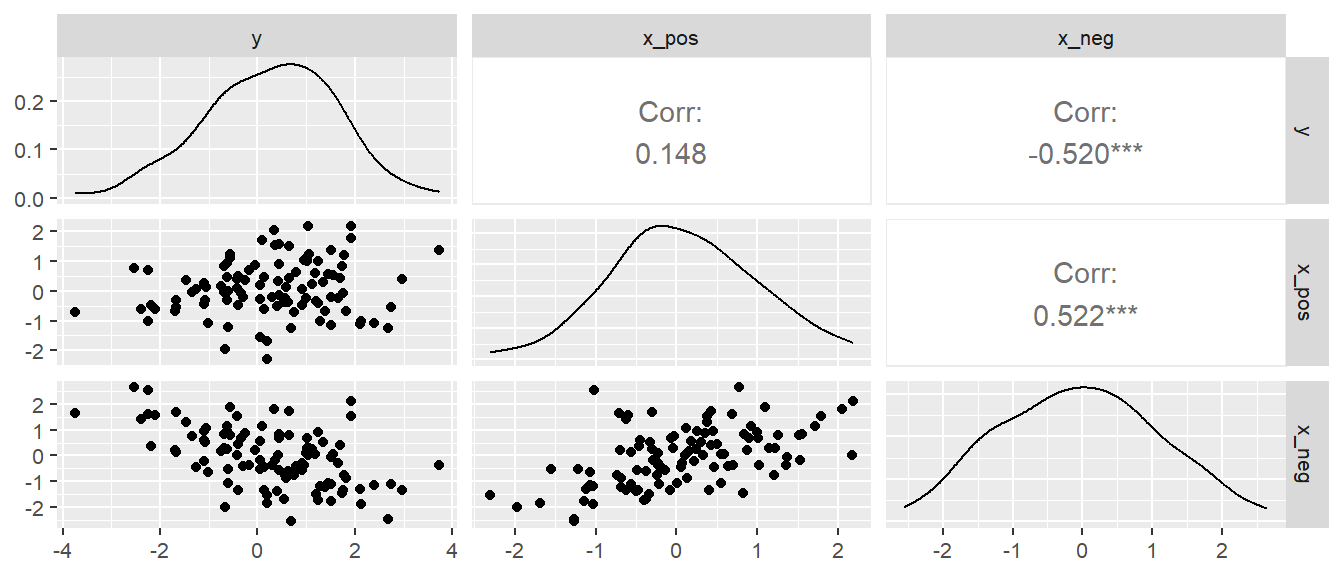
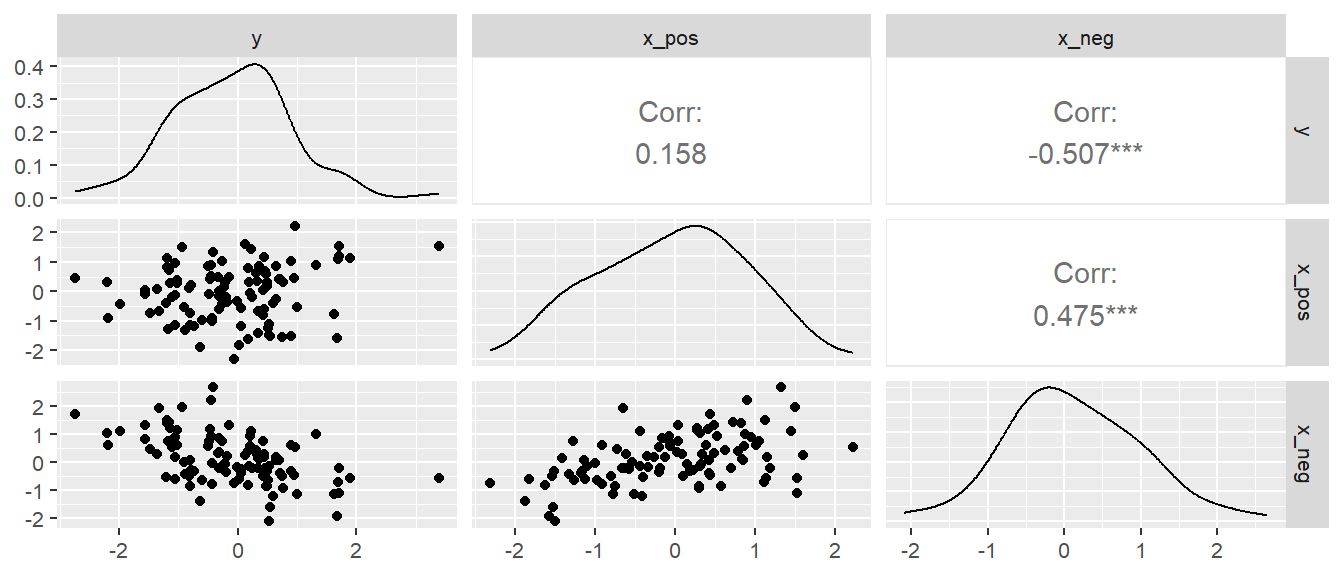
mlm_basics: More explanations for multicollinearity.

diff --git a/docs/mlm_basics.html b/docs/mlm_basics.html
@@ -493,15 +493,14 @@ window.Quarto = {
   <ul class="collapse">
   <li><a href="#added-variable-plots" id="toc-added-variable-plots" class="nav-link" data-scroll-target="#added-variable-plots"><span class="header-section-number">17.2.1</span> Added-variable plots</a></li>
   <li><a href="#was-passiert-wenn-eine-prädiktorvariable-weggelassen-wird" id="toc-was-passiert-wenn-eine-prädiktorvariable-weggelassen-wird" class="nav-link" data-scroll-target="#was-passiert-wenn-eine-prädiktorvariable-weggelassen-wird"><span class="header-section-number">17.2.2</span> Was passiert wenn eine Prädiktorvariable weggelassen wird?</a></li>
-  <li><a href="#was-passiert-wenn-prädiktoren-stark-miteinander-korrelieren" id="toc-was-passiert-wenn-prädiktoren-stark-miteinander-korrelieren" class="nav-link" data-scroll-target="#was-passiert-wenn-prädiktoren-stark-miteinander-korrelieren"><span class="header-section-number">17.2.3</span> Was passiert wenn Prädiktoren stark miteinander korrelieren?</a></li>
   </ul></li>
   <li><a href="#multikollinearität" id="toc-multikollinearität" class="nav-link" data-scroll-target="#multikollinearität"><span class="header-section-number">17.3</span> Multikollinearität</a>
   <ul class="collapse">
   <li><a href="#variance-inflation-factor-vif-in-r-berechnen" id="toc-variance-inflation-factor-vif-in-r-berechnen" class="nav-link" data-scroll-target="#variance-inflation-factor-vif-in-r-berechnen"><span class="header-section-number">17.3.1</span> Variance Inflation Factor (VIF) in <code>R</code> berechnen</a></li>
+  <li><a href="#wenn-prädiktorvariablen-x_j-sich-maskieren" id="toc-wenn-prädiktorvariablen-x_j-sich-maskieren" class="nav-link" data-scroll-target="#wenn-prädiktorvariablen-x_j-sich-maskieren"><span class="header-section-number">17.3.2</span> Wenn Prädiktorvariablen <span class="math inline">\(X_j\)</span> sich maskieren</a></li>
   </ul></li>
-  <li><a href="#verhältnis-der-prädiktorvariblen-x_j-untereinander" id="toc-verhältnis-der-prädiktorvariblen-x_j-untereinander" class="nav-link" data-scroll-target="#verhältnis-der-prädiktorvariblen-x_j-untereinander"><span class="header-section-number">17.4</span> Verhältnis der Prädiktorvariblen <span class="math inline">\(X_j\)</span> untereinander</a></li>
-  <li><a href="#take-away" id="toc-take-away" class="nav-link" data-scroll-target="#take-away"><span class="header-section-number">17.5</span> Take-away</a></li>
-  <li><a href="#zum-nacharbeiten" id="toc-zum-nacharbeiten" class="nav-link" data-scroll-target="#zum-nacharbeiten"><span class="header-section-number">17.6</span> Zum Nacharbeiten</a></li>
+  <li><a href="#take-away" id="toc-take-away" class="nav-link" data-scroll-target="#take-away"><span class="header-section-number">17.4</span> Take-away</a></li>
+  <li><a href="#zum-nacharbeiten" id="toc-zum-nacharbeiten" class="nav-link" data-scroll-target="#zum-nacharbeiten"><span class="header-section-number">17.5</span> Zum Nacharbeiten</a></li>
   </ul>
 </nav>
     </div>
@@ -1013,8 +1012,9 @@ y  0.969 0.289 1.000</code></pre>
 </div>
 <p>Es ist zu sehen, dass <span class="math inline">\(x_1\)</span> und <span class="math inline">\(x_2\)</span> miteinander korrelieren, zwar nur leicht aber die Korrelation ist nicht exakt <span class="math inline">\(=0\)</span>. D.h. <span class="math inline">\(x_1\)</span> enthält rein durch Zufall etwas Informationen über <span class="math inline">\(x_2\)</span>. Dementsprechend ändern sich die Beiträge der Variablen zu <span class="math inline">\(y\)</span> in Abhängigkeit davon ob die jeweils andere Variable ebenfalls im Modell enthalten ist oder eben nicht. Die Änderungen sind dabei wie oben zu sehen war nur sehr gering.</p>
 </section>
-<section id="was-passiert-wenn-prädiktoren-stark-miteinander-korrelieren" class="level3" data-number="17.2.3">
-<h3 data-number="17.2.3" class="anchored" data-anchor-id="was-passiert-wenn-prädiktoren-stark-miteinander-korrelieren"><span class="header-section-number">17.2.3</span> Was passiert wenn Prädiktoren stark miteinander korrelieren?</h3>
+</section>
+<section id="multikollinearität" class="level2" data-number="17.3">
+<h2 data-number="17.3" class="anchored" data-anchor-id="multikollinearität"><span class="header-section-number">17.3</span> Multikollinearität</h2>
 <p>Sei nun ein anderer Datensatz betrachtet <span class="citation" data-cites="kutner2005">(Beispiel aus <a href="references.html#ref-kutner2005" role="doc-biblioref">Kutner u.&nbsp;a. 2005</a>)</span>. Im Rahmen einer Untersuchung sind Körperfettmessungen durchgeführt an <span class="math inline">\(20\)</span> Personen durchgeführt worden. Neben einer Gesamtkörpermessung wurde auch der Körperfettanteil am Oberarm, Unterarm und am Oberschenkel bestimmt. In <a href="#tbl-mlm-basics-bodyfat-01" class="quarto-xref">Tabelle&nbsp;<span>17.5</span></a> ist ein Ausschnitt der Daten abgebildet.</p>
 <div class="cell">
 <div id="tbl-mlm-basics-bodyfat-01" class="cell quarto-float quarto-figure quarto-figure-center anchored">
@@ -1158,11 +1158,7 @@ Tabelle&nbsp;17.6: Koeffizienten der vier verschiedenen Modellen zu den Körperf
 </figure>
 </div>
 </div>
-<p>Es ist zu beobachten, dass für diese Daten die Werte der Modellkoeffizienten sich sehr stark ändern in Abhängigkeit von welche Variablen in dem Modell enthalten sind. Beispielsweise änder der Koeffizient für den Oberschenkel nicht nur seine Größe sondern auch sein Vorzeichen, je nachdem ob der Ober- oder der Unterarm oder beide im Modell enthalten sind. D.h. durch die Korrelation der Prädiktorvariablen untereinander kommt es dazu, dass die Modellkoeffizienten sehr stark schwanken in Abhängigkeit von der Variablenkombination. Wird dies wieder aus der Sicht der Information betrachtet ist dieser Effekt eigentlich auch zu erwarten. Die Interpretation der Modellkoeffizienten bei der multiplen Regression war oben hergeleitet als, wie viel Information die <em>neue</em> Variablen liefert nachdem die anderen Variablen schon im Modell berücksichtigt wurden. Wenn die Variablen nun sehr stark miteinander korrelieren, dass bringt eine neue Variable wenige neue Information in das Modell. D.h. bei der multiplen Regression ist die Betrachtung der Beziehung der Prädiktorvariablen miteinander wichtig bei der Beurteilung des Modells. Dieses Konzept ist so wichtig, dass es einen eigenen Namen bekommt. Wenn mehrere Variablen in einem Modell miteinander korrelieren, dann wird dies als <strong>Multikollinearität</strong> bezeichnet.</p>
-</section>
-</section>
-<section id="multikollinearität" class="level2" data-number="17.3">
-<h2 data-number="17.3" class="anchored" data-anchor-id="multikollinearität"><span class="header-section-number">17.3</span> Multikollinearität</h2>
+<p>Es ist zu beobachten, dass für diese Daten die Werte der Modellkoeffizienten sich sehr stark ändern in Abhängigkeit von welche Variablen in dem Modell enthalten sind. Beispielsweise änder der Koeffizient für den Oberschenkel nicht nur seine Größe sondern auch sein Vorzeichen, je nachdem ob der Ober- oder der Unterarm oder beide im Modell enthalten sind. D.h. durch die Korrelation der Prädiktorvariablen untereinander kommt es dazu, dass die Modellkoeffizienten sehr stark schwanken in Abhängigkeit von der Variablenkombination. Wird dies wieder aus der Sicht der Information betrachtet ist dieser Effekt eigentlich auch zu erwarten. Die Interpretation der Modellkoeffizienten bei der multiplen Regression war oben hergeleitet als, wie viel Information die <em>neue</em> Variablen liefert nachdem die anderen Variablen schon im Modell berücksichtigt wurden. Wenn die Variablen nun sehr stark miteinander korrelieren, dann bringt eine neue Variable wenige <em>neue Information</em> in das Modell über diejenige Information die schon durch die anderen Variablen repräsentiert wird. D.h. bei der multiplen Regression ist die Betrachtung der Beziehung der Prädiktorvariablen miteinander wichtig bei der Beurteilung des Modells. Dieses Konzept ist so wichtig, dass es einen eigenen Namen bekommt. Wenn mehrere Variablen in einem Modell miteinander korrelieren, dann wird dies als <strong>Multikollinearität</strong> bezeichnet.</p>
 <div id="def-multicollinearity" class="theorem definition">
 <p><span class="theorem-title"><strong>Definition 17.1 (Multikollinearität)</strong></span> Wenn in einem Modell Prädiktorvariablen miteinander korrelieren, dann wird dies als Multikollinearität bezeichnet.</p>
 </div>
@@ -1174,12 +1170,12 @@ Tabelle&nbsp;17.6: Koeffizienten der vier verschiedenen Modellen zu den Körperf
 <li>Hohe (einfache) Korrelationen zwischen Prädiktoren</li>
 <li>Breite Konfidenzintervalle für “wichtige” Prädiktoren <span class="math inline">\(b_j\)</span></li>
 </ul>
-<p>Es lässt sich zeigen, dass die Varianz der geschätzen Modellkoefizienten <span class="math inline">\(b_j\)</span> die folgende Form hat (siehe Formel <span class="math inline">\(\eqref{eq-mlm-basics-varb_j}\)</span>:</p>
+<p>Es lässt sich zeigen, dass die Varianz der geschätzten Modellkoefizienten <span class="math inline">\(b_j\)</span> die folgende Form hat (siehe Formel <span class="math inline">\(\eqref{eq-mlm-basics-varb_j}\)</span>:</p>
 <p><span class="math display">\[\begin{equation}
 \widehat{\text{Var}}(b_j) = \frac{\hat{\sigma}^2}{(n-1)s_j^2}\frac{1}{1-R_j^2}
 \label{eq-mlm-basics-varb_j}
 \end{equation}\]</span></p>
-<p>Der Term <span class="math inline">\(R_j^2\)</span> wird als multipler Korrelationskoeffizient bezeichnet und berechnet sich als der Determinationskoeffizienten der Prädiktorvariablen <span class="math inline">\(x_i, i\neq j\)</span> auf die Prädiktorvariable <span class="math inline">\(x_j\)</span>. D.h. es wird ein Regressionsmodell gerechnet bei dem die Prädiktorvariable <span class="math inline">\(x_j\)</span> als abhängige Variable verwendet wird und mittels der anderen <span class="math inline">\(p-1\)</span> Prädiktorvariablen modelliert wird.</p>
+<p>Der Term <span class="math inline">\(R_j^2\)</span> wird als multipler Korrelationskoeffizient bezeichnet und berechnet sich als der Determinationskoeffizienten der Prädiktorvariablen <span class="math inline">\(X_i, i\neq j\)</span> auf die Prädiktorvariable <span class="math inline">\(X_j\)</span>. D.h. es wird ein Regressionsmodell gerechnet bei dem die Prädiktorvariable <span class="math inline">\(X_j\)</span> als abhängige Variable verwendet wird und mittels der anderen <span class="math inline">\(p-1\)</span> Prädiktorvariablen modelliert wird.</p>
 <p>Der zweiter Term in Formel <span class="math inline">\(\eqref{eq-mlm-basics-varb_j}\)</span> <span class="math inline">\(\frac{1}{1-R_j^2}\)</span> wird als Variance Inflation Factor (VIF) bezeichnet. Anhand des VIF kann ein Modell relativ einfach, zumindest heuristisch, auf Multikollinearitäten überprüft werden. Dabei wird für jede Prädiktorvariable die VIF bestimmt. Manchmal wird in der Literatur auch die sogenannte Tolerance = <span class="math inline">\(\frac{1}{VIF}\)</span>, also der Umkehrwert des VIF, betrachtet.</p>
 <p><span class="math display">\[\begin{equation*}
 \text{VIF}_j = \frac{1}{1-R_j^2}
@@ -1198,6 +1194,7 @@ Tipp
 <p>Wenn VIF &gt; 10 ist, dann deutet dies auf hohe Multikollinearität hin.</p>
 </div>
 </div>
+<p>Der Name variance inflation factor deutet dabei schon auf den Effekt von Multikollinearität hin. Durch die Korrelation der Variablen untereinander kommt es zu einer <em>Inflation der Varianzen</em>. D.h. die Standardfehler der Modellparameter werden vergrößert was dazu führen kann, dass die Modellkoeffizienten keine statistische Signifikanz aufweisen obwohl ein klarer Zusammenhang zwischen der Prädiktorvariablen und der abhängigen Variablen besteht.</p>
 <p>Hinsichtlich des Einflusses bzw. des Umgangs bei Multikollinearität muss unterschieden werden, welches Ziel die Modellierung verfolgt. Das Problem das durch die Multikollinearität entsteht ist, basiert darauf das das Modell nicht eindeutig zuordnen kann, welche der miteinander korrelierten Variable für die beobachteten Veränderungen in der abhängigen Variablen <span class="math inline">\(Y\)</span> zuständig ist. Multikollinearität vermindert dabei <strong>nicht</strong> die Fähigkeit des Modells Mittelwerte <span class="math inline">\(E[y|x]\)</span> vorherzusagen oder einen guten Modellfit zu erhalten. Allerdings verkompliziert sich die Interpretation der Modellkoeffizienten <span class="math inline">\(\hat{beta}_j\)</span>. Dadurch das die Prädiktorvariablen miteinander korrelieren, kann es beispielsweise gar nicht praktisch möglich sein die Variablen einzeln zu variieren, wodurch die Interpretation des Koeffizienten <span class="math inline">\(b_j\)</span> als die Veränderung von <span class="math inline">\(y\)</span> bei Veränderung von <span class="math inline">\(x_j\)</span> um eine Einheit problematisch wird. Weiterhin, dadurch das durch die Multikollinearität die Varianzen der Modelkoeffizienten vergrößert werden, kann es zu dem Fall kommen, dass ein Modellkoeffizienten <span class="math inline">\(b_j\)</span> statistisch nicht signifikant ist, obwohl eindeutig ein Zusammenhang zwischen <span class="math inline">\(x_j\)</span> und <span class="math inline">\(y\)</span> besteht. Zusätzlich, dadurch das die Modellkoeffizienten sich stark verändern können bei Veränderung des Modells ist deren Interpretation grundsätzlich problematisch.</p>
 <section id="variance-inflation-factor-vif-in-r-berechnen" class="level3" data-number="17.3.1">
 <h3 data-number="17.3.1" class="anchored" data-anchor-id="variance-inflation-factor-vif-in-r-berechnen"><span class="header-section-number">17.3.1</span> Variance Inflation Factor (VIF) in <code>R</code> berechnen</h3>
@@ -1283,12 +1280,67 @@ Tabelle&nbsp;17.7: Ausgabe von <code>check_collinearity()</code>
 </div>
 </div>
 <p>In <a href="#tbl-mlm-basics-collin" class="quarto-xref">Tabelle&nbsp;<span>17.7</span></a> ist zu sehen, dass <code>check_collinearity()</code> auch noch Konfidenzintervalle und besagten Tolerance Parameter ausgibt. In jedem Fall, ist zu sehen, dass bei Anwendung der Daumenregel <span class="math inline">\(VIF &gt; 10\)</span>, hohe Multikollinearität in unserem Körperfettmodell zu beobachten sind. Dies erklärt somit auch die großen Veränderung in den Koeffizienten bei Hinzu- bzw. Entnahme der Prädiktorvariablen.</p>
+<div id="exm-mlm-basics-jiourumaru" class="theorem example">
+<p><span class="theorem-title"><strong>Beispiel 17.2 (Gehparameter bei Älteren)</strong></span> Die Beziehung zwischen gebrechlichen älteren Menschen und der Gehgeschwindigkeit ist entscheidend, um den Bedarf an Langzeitpflege oder erhöhter Unterstützung zu minimieren. Insbesondere ist der Zusammenhang zwischen Gehleistung, respiratorischer Funktion und dynamischem Gleichgewicht bei älteren Menschen, die auf Langzeitpflege angewiesen sind, noch nicht gut verstanden. Zu diesem Zweck wurde in <span class="citation" data-cites="jiroumaru2023">Jiroumaru u.&nbsp;a. (<a href="references.html#ref-jiroumaru2023" role="doc-biblioref">2023</a>)</span> der Zusammenhänge zwischen Gehgeschwindigkeit, Atemmuskelkraft und dynamischem Gleichgewicht mittels multipler Regressionsanalyse untersucht.</p>
+<p>Die Atemmuskelkraft wurde mittels des maximalen inspiratorische (PImax) und des maximalen exspiratorische Drucks (PEmax) bestimmt. Der maximale Doppelschrittlängentest (MDST) wurde als Index für das dynamische Gleichgewicht verwendet. Eine multiple Regressionsanalyse wurde durchgeführt, wobei die Gehgeschwindigkeit (normale und maximale Gehgeschwindigkeit) als abhängige Variable und PImax, PEmax sowie MDST als unabhängige Variablen verwendet wurden. Zusätzlich wurde das Geschlecht als Anpassungsvariable berücksichtigt und in den Daten als entweder <span class="math inline">\(0\)</span> oder <span class="math inline">\(1\)</span> kodiert. Die Daten sind im repository zum Skriptum zu finden. Eine Analyse der Daten für die abhängige Variable maximale Gehgeschwindigkeit (<code>mws</code>) führte zu folgendem Ergebnis:</p>
+<div class="cell">
+<div class="cell-output cell-output-stdout">
+<pre><code>
+Call:
+lm(formula = mws ~ Pemax + mdst + Pimax + gender, data = jiro)
+
+Residuals:
+     Min       1Q   Median       3Q      Max 
+-0.49647 -0.11938  0.02674  0.09814  0.63112 
+
+Coefficients:
+             Estimate Std. Error t value Pr(&gt;|t|)    
+(Intercept) -0.089055   0.143775  -0.619   0.5388    
+Pemax        0.005391   0.002381   2.264   0.0286 *  
+mdst         0.810667   0.156529   5.179 5.33e-06 ***
+Pimax        0.005307   0.002804   1.893   0.0650 .  
+gender      -0.121083   0.083215  -1.455   0.1528    
+---
+Signif. codes:  0 '***' 0.001 '**' 0.01 '*' 0.05 '.' 0.1 ' ' 1
+
+Residual standard error: 0.2387 on 44 degrees of freedom
+Multiple R-squared:  0.6331,    Adjusted R-squared:  0.5998 
+F-statistic: 18.98 on 4 and 44 DF,  p-value: 3.918e-09</code></pre>
+</div>
+</div>
+<p>D.h. es wurde ein stastistisch signifikanter Zusammenhang der maximalen Gehgeschwindigkeit mit PEmax und MDST beobachtet. Eine Untersuchung des VIF deutete auf keine starken Multikollineariäten zwischen den Variablen hin.</p>
+<div class="cell">
+<div class="sourceCode cell-code" id="cb22"><pre class="sourceCode r code-with-copy"><code class="sourceCode r"><span id="cb22-1"><a href="#cb22-1" aria-hidden="true" tabindex="-1"></a>car<span class="sc">::</span><span class="fu">vif</span>(mod)</span></code><button title="In die Zwischenablage kopieren" class="code-copy-button"><i class="bi"></i></button></pre></div>
+<div class="cell-output cell-output-stdout">
+<pre><code>   Pemax     mdst    Pimax   gender 
+2.137365 1.255722 1.866983 1.458773 </code></pre>
+</div>
+</div>
+</div>
 </section>
-</section>
-<section id="verhältnis-der-prädiktorvariblen-x_j-untereinander" class="level2" data-number="17.4">
-<h2 data-number="17.4" class="anchored" data-anchor-id="verhältnis-der-prädiktorvariblen-x_j-untereinander"><span class="header-section-number">17.4</span> Verhältnis der Prädiktorvariblen <span class="math inline">\(X_j\)</span> untereinander</h2>
-<p>Insgesamt sind aus der operativen Seite durch den Übergang von der einfachen zur multiplen Regression keine großen Neuerungen hinzugekommen. Allerdings müssen jetzt, wie schon bezüglich der Multikollinearität gesehen wurde, das Verhältnis der Prädiktorvariablen <span class="math inline">\(X_j\)</span> untereinander näher betrachtet werden. Das folgenden Beispiel ist <span class="citation" data-cites="mcelreath2016">McElreath (<a href="references.html#ref-mcelreath2016" role="doc-biblioref">2016</a>)</span> entnommen und zeigt, dass sich Variablen auch gegenseitig <em>maskieren</em> können und wiederum große Veränderungen in den Modellkoeffizienten auftreten können, wenn Variablen hinzugenommen bzw. weggelassen werden.</p>
-<p>Um den Effekt der Maskierung leichter nachvollziehen zu können erstellen wir uns wieder einen einfachen Datensatz mit zwei Prädiktorvariablen <span class="math inline">\(X_{pos}\)</span> und <span class="math inline">\(X_{neg}\)</span>. <span class="math inline">\(X_{pos}\)</span> ist positiv mit <span class="math inline">\(Y\)</span> korreliert, während <span class="math inline">\(X_{neg}\)</span> negativ mit <span class="math inline">\(Y\)</span> korreliert. Allerdings zeigen die beiden Variablen untereinander ebenfalls eine positive Korrelation. In <a href="#fig-mlm-basics-mask-01" class="quarto-xref">Abbildung&nbsp;<span>17.6</span></a> ist die Korrelationsmatrize der drei Variablen abgebildet.</p>
+<section id="wenn-prädiktorvariablen-x_j-sich-maskieren" class="level3" data-number="17.3.2">
+<h3 data-number="17.3.2" class="anchored" data-anchor-id="wenn-prädiktorvariablen-x_j-sich-maskieren"><span class="header-section-number">17.3.2</span> Wenn Prädiktorvariablen <span class="math inline">\(X_j\)</span> sich maskieren</h3>
+<p>Insgesamt sind aus der operativen Seite durch den Übergang von der einfachen zur multiplen Regression keine großen Neuerungen hinzugekommen. Allerdings müssen jetzt, wie schon bezüglich der Multikollinearität gesehen wurde, das Verhältnis der Prädiktorvariablen <span class="math inline">\(X_j\)</span> untereinander näher betrachtet werden. Das folgenden Beispiel ist <span class="citation" data-cites="mcelreath2016">McElreath (<a href="references.html#ref-mcelreath2016" role="doc-biblioref">2016</a>)</span> entnommen und zeigt noch einmal zu welchen unerwarteten Effekten es kommen kann, wenn die Prädiktorvariablen miteinander in Beziehung stehen. In diesem Beispiel kommt es tatsächlich zu einer <em>Maskierung</em> der Effekt untereinander wenn Variablen hinzugenommen bzw. weggelassen werden. Daraus resultieren ebenfalls große Veränderungen in den Modellkoeffizienten in Abhängigkeit von der Kombination der Prädiktorvariablen.</p>
+<p>Um das Beispiel so anschaulich wie möglich zu machen, wird ein DGP mit nur zwei Prädiktorvariablen <span class="math inline">\(X_{pos}\)</span> und <span class="math inline">\(X_{neg}\)</span> verwendet. Die Prädiktorvariable <span class="math inline">\(X_{pos}\)</span> sei positiv mit <span class="math inline">\(Y\)</span> korreliert, während die Prädiktorvariable <span class="math inline">\(X_{neg}\)</span> negativ mit <span class="math inline">\(Y\)</span> korreliert ist. Zusätzlich seien die beiden Prädiktorvariablen Variablen positiv miteinander korreliert. Es werden <span class="math inline">\(N = 100\)</span> Datenpunkte simuliert. Die genaue Herleitung der Werte ist im einzelnen nicht wichtig und die Werte sind wie immer bei den verwendeten Simulationen der Einfachheit halber gewählt. Zwischen <span class="math inline">\(X_{pos}\)</span> und <span class="math inline">\(Y\)</span> besteht eine Korrelation von <span class="math inline">\(rho_{X_{pos}y} = 0.15\)</span>, zwischen <span class="math inline">\(X_{neg}\)</span> und <span class="math inline">\(Y\)</span> von <span class="math inline">\(rho_{X_{neg}Y} = -0.5\)</span> und zwischen den beiden Prädiktorvariabeln von <span class="math inline">\(rho_{XX} = 0.5\)</span></p>
+<div class="cell">
+<div class="sourceCode cell-code" id="cb24"><pre class="sourceCode r code-with-copy"><code class="sourceCode r"><span id="cb24-1"><a href="#cb24-1" aria-hidden="true" tabindex="-1"></a>Sigma <span class="ot">&lt;-</span> <span class="fu">matrix</span>(<span class="fu">c</span>(<span class="dv">1</span>,<span class="fl">0.15</span>, <span class="sc">-</span>.<span class="dv">5</span>, <span class="fl">0.15</span>, <span class="dv">1</span>, <span class="fl">0.5</span>, <span class="sc">-</span><span class="fl">0.5</span>, <span class="fl">0.5</span>, <span class="dv">1</span>), <span class="at">nr=</span><span class="dv">3</span>)</span>
+<span id="cb24-2"><a href="#cb24-2" aria-hidden="true" tabindex="-1"></a>Sigma</span></code><button title="In die Zwischenablage kopieren" class="code-copy-button"><i class="bi"></i></button></pre></div>
+<div class="cell-output cell-output-stdout">
+<pre><code>      [,1] [,2] [,3]
+[1,]  1.00 0.15 -0.5
+[2,]  0.15 1.00  0.5
+[3,] -0.50 0.50  1.0</code></pre>
+</div>
+</div>
+<p>Um die gewünschte Korrelationsstruktur zwischen den Variablen kann nun die Funktion <code>mvrnorm()</code> aus dem Paket <code>MASS</code> verwendet werden. Mit <code>mvrnorm()</code> können Zufallszahlen generiert werden, die eine multivariaten Normalverteilung mit einer vorgegeben Kovarianzstruktur folgen.</p>
+<div class="cell">
+<div class="sourceCode cell-code" id="cb26"><pre class="sourceCode r code-with-copy"><code class="sourceCode r"><span id="cb26-1"><a href="#cb26-1" aria-hidden="true" tabindex="-1"></a><span class="fu">set.seed</span>(<span class="dv">123</span>)</span>
+<span id="cb26-2"><a href="#cb26-2" aria-hidden="true" tabindex="-1"></a>N <span class="ot">&lt;-</span> <span class="dv">100</span></span>
+<span id="cb26-3"><a href="#cb26-3" aria-hidden="true" tabindex="-1"></a>df_temp <span class="ot">&lt;-</span> MASS<span class="sc">::</span><span class="fu">mvrnorm</span>(<span class="at">n =</span> <span class="dv">100</span>, <span class="at">mu =</span> <span class="fu">c</span>(<span class="dv">0</span>,<span class="dv">0</span>,<span class="dv">0</span>), <span class="at">Sigma=</span>Sigma)</span>
+<span id="cb26-4"><a href="#cb26-4" aria-hidden="true" tabindex="-1"></a><span class="fu">colnames</span>(df_temp) <span class="ot">&lt;-</span> <span class="fu">c</span>(<span class="st">'y'</span>,<span class="st">'x_pos'</span>,<span class="st">'x_neg'</span>)</span>
+<span id="cb26-5"><a href="#cb26-5" aria-hidden="true" tabindex="-1"></a>df <span class="ot">&lt;-</span> <span class="fu">as_tibble</span>(df_temp)</span></code><button title="In die Zwischenablage kopieren" class="code-copy-button"><i class="bi"></i></button></pre></div>
+</div>
+<p>In <a href="#fig-mlm-basics-mask-01" class="quarto-xref">Abbildung&nbsp;<span>17.6</span></a> ist die resultierende Korrelationsmatrize der drei Variablen abgebildet.</p>
 <div class="cell">
 <div class="cell-output-display">
 <div id="fig-mlm-basics-mask-01" class="quarto-float quarto-figure quarto-figure-center anchored">
@@ -1303,7 +1355,7 @@ Abbildung&nbsp;17.6: x_pos maskiert den Einfluss von x_neg
 </div>
 </div>
 </div>
-<p>In <a href="#tbl-mlm-basics-mask-02" class="quarto-xref">Tabelle&nbsp;<span>17.8</span></a> sind die verschiedenen Modellkoeffizienten für wenn jeweils nur eine der Variablen in das Modell eingeht bzw. wenn beide Variablen im Modell enthalten sind.</p>
+<p>Es ist zu sehen, dass <code>x_pos</code> und <code>x_neg</code> die gewünschte Korrelation mit <span class="math inline">\(y\)</span> aufweisen sowie ebenfalls eine positive Korrelation miteinander aufweisen. Nun werden wieder drei verschiedene Modelle angepasst. Ein Modell mit bei Variablen, eine Modell mit nur <span class="math inline">\(x_{pos}\)</span> und ein Modell mit nur <span class="math inline">\(x_{neg}\)</span> als Prädiktorvariablen. In <a href="#tbl-mlm-basics-mask-02" class="quarto-xref">Tabelle&nbsp;<span>17.8</span></a> sind die resultierenden Modellkoeffizienten für die drei Modelle dokumentiert.</p>
 <div class="cell">
 <div id="tbl-mlm-basics-mask-02" class="cell quarto-float quarto-figure quarto-figure-center anchored">
 <figure class="quarto-float quarto-float-tbl figure">
@@ -1314,37 +1366,37 @@ Tabelle&nbsp;17.8: Koeffizienten und Standardfehler der unterschiedlichen Modell
 <div class="cell-output-display">
 <table class="do-not-create-environment cell caption-top table table-sm table-striped small">
 <colgroup>
-<col style="width: 13%">
-<col style="width: 25%">
-<col style="width: 30%">
-<col style="width: 30%">
+<col style="width: 11%">
+<col style="width: 26%">
+<col style="width: 31%">
+<col style="width: 31%">
 </colgroup>
 <thead>
 <tr class="header">
 <th style="text-align: left;"></th>
-<th style="text-align: left;"><span class="math inline">\(\beta_0 \pm s_e\)</span></th>
-<th style="text-align: left;"><span class="math inline">\(\beta_{pos} \pm s_e\)</span></th>
-<th style="text-align: left;"><span class="math inline">\(\beta_{neg} \pm s_e\)</span></th>
+<th style="text-align: left;"><span class="math inline">\(\hat{\beta_0} \pm s_e\)</span></th>
+<th style="text-align: left;"><span class="math inline">\(\hat{\beta}_{pos} \pm s_e\)</span></th>
+<th style="text-align: left;"><span class="math inline">\(\hat{\beta}_{neg} \pm s_e\)</span></th>
 </tr>
 </thead>
 <tbody>
 <tr class="odd">
 <td style="text-align: left;">pos</td>
-<td style="text-align: left;"><span class="math inline">\(0.24\pm 0.13\)</span></td>
-<td style="text-align: left;"><span class="math inline">\(0.22\pm 0.15\)</span></td>
+<td style="text-align: left;"><span class="math inline">\(-0.1\pm 0.1\)</span></td>
+<td style="text-align: left;"><span class="math inline">\(0.17\pm 0.11\)</span></td>
 <td style="text-align: left;"></td>
 </tr>
 <tr class="even">
 <td style="text-align: left;">neg</td>
-<td style="text-align: left;"><span class="math inline">\(0.23\pm 0.12\)</span></td>
+<td style="text-align: left;"><span class="math inline">\(-0.04\pm 0.09\)</span></td>
 <td style="text-align: left;"></td>
-<td style="text-align: left;"><span class="math inline">\(-0.62\pm 0.1\)</span></td>
+<td style="text-align: left;"><span class="math inline">\(-0.57\pm 0.1\)</span></td>
 </tr>
 <tr class="odd">
 <td style="text-align: left;">pos + neg</td>
-<td style="text-align: left;"><span class="math inline">\(0.14\pm 0.1\)</span></td>
-<td style="text-align: left;"><span class="math inline">\(0.85\pm 0.12\)</span></td>
-<td style="text-align: left;"><span class="math inline">\(-0.98\pm 0.1\)</span></td>
+<td style="text-align: left;"><span class="math inline">\(0.03\pm 0.07\)</span></td>
+<td style="text-align: left;"><span class="math inline">\(0.54\pm 0.09\)</span></td>
+<td style="text-align: left;"><span class="math inline">\(-0.85\pm 0.1\)</span></td>
 </tr>
 </tbody>
 </table>
@@ -1353,13 +1405,20 @@ Tabelle&nbsp;17.8: Koeffizienten und Standardfehler der unterschiedlichen Modell
 </figure>
 </div>
 </div>
-<p>Wir können erkennen, dass die Größe der Koeffizienten wiederum stark davon abhängt welches Modell gefittet wird. Für das Modell mit nur dem positiven Prädiktor ist der Modellkoeffizient <span class="math inline">\(b_{pos}\)</span> auch nicht statistisch signifikant. Sondern erst wenn beide Variablen in dem Modell inkludiert sind ist der Koeffizient ebenfalls statistisch signifikant. Zusammenfassend ist es entsprechend wichtig dass bei der Modellierung theoretische Vorüberlegungen die relevanten Variablen identifizieren und nicht einfach nur hin und her probiert wird. Zumindest wenn es darum geht der größer der Koeffizienten auch inhaltliche Bedeutung zuzuweisen.</p>
+<p>Es ist zu erkennen, dass die Größe der Modellkoeffizienten sehr stark davon abhängt welche Variablenkombination gefittet wird. Für das Modell mit nur dem positiven Prädiktor <span class="math inline">\(x_{pos}\)</span> kann bei Verwendung der Daumenregeln <span class="math inline">\(\pm 2\times \text{SE}\)</span> erkannt werden, dass der Modellkoeffizient <span class="math inline">\(b_{pos}\)</span> statistisch nicht signifikant ist. Erst wenn beide Prädiktorvariablen in dem Modell inkludiert sind, ist der Modellkoeffizient statistisch signifikant. Im ersten Modell maskiert der Effekte der Prädiktorvariablen <span class="math inline">\(x_{neg}\)</span>, welche gar nicht im Modell enthalten ist, den Effekt von <span class="math inline">\(x_{pos}\)</span> auf <span class="math inline">\(y\)</span>. Erst wenn beide Variablen im Modell auch enthalten sind, ist das Modell in der Lage den Effekt auch tatsächlich zu erfassen.</p>
+<p>Zusammenfassend ist es entsprechend wichtig dass bei der Modellierung mittels einer multiplen linearen Regression theoretische Vorüberlegungen über die relevanten Variablen in die Studie mit eingehen. Ein einfaches probieren mittels In- und Exklusion von Prädiktorvariablen wird selten zum gewünschten Erfolg führen bzw. zu einem robustem Modell führen. Zumindest wenn es darum geht den Werten der Modellkoeffizienten auch inhaltliche Bedeutung zuweisen zu können.</p>
 </section>
-<section id="take-away" class="level2" data-number="17.5">
-<h2 data-number="17.5" class="anchored" data-anchor-id="take-away"><span class="header-section-number">17.5</span> Take-away</h2>
 </section>
-<section id="zum-nacharbeiten" class="level2" data-number="17.6">
-<h2 data-number="17.6" class="anchored" data-anchor-id="zum-nacharbeiten"><span class="header-section-number">17.6</span> Zum Nacharbeiten</h2>
+<section id="take-away" class="level2" data-number="17.4">
+<h2 data-number="17.4" class="anchored" data-anchor-id="take-away"><span class="header-section-number">17.4</span> Take-away</h2>
+<ul>
+<li>Bei der multiplen Regression wird das Modell um zusätzliche Prädiktorvariablen erweitert</li>
+<li>Die Interpretation der Modellkoeffizienten ist bezieht sich auf den Einfluss der jeweiligen Variblen über denjenigen der anderen Variablen hinaus</li>
+<li>Die Korrelation der Prädiktorvariablen, die Multikollinearität, untereinander kann zu unvorhergesehenen Effekten bei den Modellkoeffizienten führen</li>
+</ul>
+</section>
+<section id="zum-nacharbeiten" class="level2" data-number="17.5">
+<h2 data-number="17.5" class="anchored" data-anchor-id="zum-nacharbeiten"><span class="header-section-number">17.5</span> Zum Nacharbeiten</h2>
 <p>Die folgenden Texte eignen sich gut um die Inhalte noch einmal zu vertiefen. <span class="citation" data-cites="pos_multiple_regression">Altman und Krzywinski (<a href="references.html#ref-pos_multiple_regression" role="doc-biblioref">2015</a>)</span> diskutiert noch mal eingehend was passiert wenn Variablen miteinander korrelieren und wie sich das auf die Schätzer für die Koeffizienten auswirkt. <span class="citation" data-cites="kutner2005">(<a href="references.html#ref-kutner2005" role="doc-biblioref">Kutner u.&nbsp;a. 2005, p.278–288</a>)</span> und <span class="citation" data-cites="fox2011">(<a href="references.html#ref-fox2011" role="doc-biblioref">Fox 2011, p.325–327</a>)</span> sind nochmal als Zusammenfassungen zu lesen.</p>
 
 
@@ -1372,6 +1431,9 @@ Debanne, Thierry, und Guillaume Laffaye. 2011. <span>„Predicting the throwing 
 </div>
 <div id="ref-fox2011" class="csl-entry" role="listitem">
 Fox, John. 2011. <em>An R companion to applied regression</em>. 2. Aufl. SAGE Publication Inc., Thousand Oaks.
+</div>
+<div id="ref-jiroumaru2023" class="csl-entry" role="listitem">
+Jiroumaru, Takumi, Yutaro Hyodo, Michio Wachi, Nobuko Shichiri, Junko Ochi, und Takamitsu Fujikawa. 2023. <span>„Relationship between walking speed, respiratory muscle strength, and dynamic balance in community-dwelling older people who required long-term care or support and used a daycare center“</span>. <em>PeerJ</em> 11: e16630.
 </div>
 <div id="ref-kutner2005" class="csl-entry" role="listitem">
 Kutner, Michael H, Christopher J Nachtsheim, John Neter, und William Li. 2005. <em>Applied Linear Statistical Models</em>. 5. Aufl. McGraw-Hill Irwin New York.
